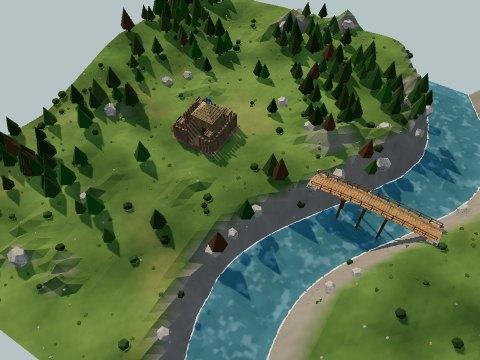
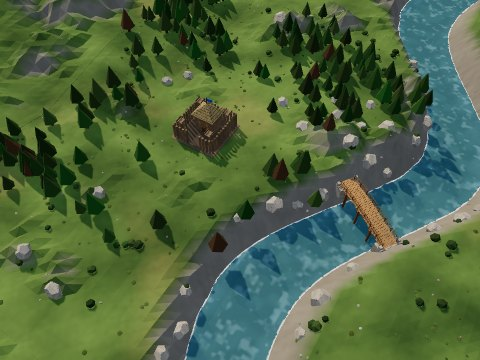
Bridges at any angle (radial on the isle, square across Meadow's river), isle outflow rivers, scenery beyond both maps, more rocks, no building on rocks
Claude-Session: https://claude.ai/code/session_01AE8sRRsVdpH9ETfQvtppox

diff --git a/CLAUDE.md b/CLAUDE.md
@@ -54,10 +54,12 @@ The whole game is currently one self-contained file: `index.html` (~165 KB, thre
 
 ## Maps
 - Two maps, picked on a dark title screen ("Medieval Town Defense", "Choose map"; `#mapPick` covers everything, visible from the first paint so the game never shows behind it) on entry and on Restart / Play again (`#mapPick`, `showMapPick`; each card shows a picture of the real map, `maps/meadow.jpg` / `maps/isle.jpg`, rendered by `node tools/render/maps.js [--three …]` (re-run after changing a map); the game waits paused underneath; last choice in `localStorage['mtd-map']`, highlighted). `?map=meadow|isle` (and `?debug` / `?gallery`) skip the picker. `MAP` is read by `genHeight`, `genTrees`, `genRocks`, `canStand`; `KX/KZ` (castle site) are set per map in `startGame` (Meadow 19,27 / cells 8–10,12–14; River isle 27,27 / cells 12–14,12–14).
-- **Meadow**: the original map: a straight river on the east side, crossed by one fixed bridge east of the castle (`MEADOW_BRIDGES` [0°], built by the same `genBridges`). Nobody wades any river (`canStand` modes 1 and 2 need h ≥ .3), so raiders spawning east of it must cross the bridge.
-- **River isle**: the castle on a flat island inside a wobbly ring of river (`ISLE.r` 16.6 m, `isleR(angle)`), hills beyond the far bank. Three fixed, free timber footbridges at `ISLE_BRIDGES` (−90°, 30°, 150°), each one cell wide along the nearer grid axis (`genBridges`: wet cells (any vertex below 0) plus the dry bank cell at each end; the deck lands half-way into each bank cell; `bridgeCell[n]` = index + 1). `deckY` arches the deck (`BRIDGE_RISE` .45); units stand at `walkY` (max of ground and deck) everywhere they are drawn; `cellPass`/`canStand` let everyone onto bridge cells; raiders can't wade (`canStand` mode 2 needs h ≥ .3). Nothing can be built or pathed on a bridge ("Bridge"). Model: `makeBridge` (planks across the arch, two log stringers, trestles where it crosses water, log railings, grey stone landings), `buildBridges` after `syncTerrain`. Woods on the island (clear round the castle and along the way to each bridge), forest beyond the river; stone only in three outcrops beyond the far bank between the bridges (`ISLE_ROCKS`, `isleRockSite`, 7 rocks each), so masons either live by the castle and walk via a bridge or build out by the rocks, exposed.
+- **Meadow**: the original map: a winding river on the east side (`meadowRiverX`), crossed by one fixed bridge square across it on the castle's row (`bridgeRays`). Rocks: a stony patch between the castle and the river north of the bridge (8) plus up to 48 scattered (≈510 stone). Nobody wades any river (`canStand` modes 1 and 2 need h ≥ .3), so raiders spawning east of it must cross the bridge.
+- **River isle**: the castle on a flat island inside a wobbly ring of river (`ISLE.r` 16.6 m, `isleR(angle)`), hills beyond the far bank. Two more rivers flow out of the ring to the map's edge, north-east and south-west (`isleOutN`/`isleOutS`, carved in `genHeight` outside the ring only), so the far bank is split in two. Three fixed, free timber footbridges at `ISLE_BRIDGES` (−90°, 30°, 150°), each radial (square across the ring). Bridges at any angle (`genBridges` from `bridgeRays`: march along a ray, the deck runs 1.4 m past the water at each end; a bridge is `x0, z0, dx, dz, L`, deck `DECK_W` 1.9; `bridgeT`/`bridgeW`/`onDeck`; `bridgeCell[n]` = index + 1 for every cell the deck touches, `b.ends` its end cells). `deckY(b, t)` arches the deck (`BRIDGE_RISE` .45); units stand at `walkY` (the deck inside its strip, else the ground) everywhere they are drawn; `cellPass` lets everyone path over bridge cells, `canStand` only on the deck strip; A* steps on and off a bridge only through its end cells, and waypoints in bridge cells are pulled onto the deck's centre line (`bridgeWaypoint`); raiders can't wade (`canStand` mode 2 needs h ≥ .3). Nothing can be built or pathed on a bridge ("Bridge"). Model: `makeBridge` (planks across the arch, two log stringers, trestles where it crosses water, log railings, grey stone landings), `buildBridges` after `syncTerrain`. Woods on the island (clear round the castle and along the way to each bridge), forest beyond the river; stone only beyond the river: three outcrops between the bridges (`ISLE_ROCKS`, `isleRockSite`, 7 rocks each) plus 16 scattered rocks, so masons either live by the castle and walk via a bridge or build out by the rocks, exposed.
 - Raiders route on the cell grid with `walkTo` (mode 2) toward a fixed point on their target's near side (`e.tp`, reset on each 3 s retarget), straight `steer` only within 3 m; a wall in the way (stuck or 3.5 s without progress) is attacked as before. Spawn points (`edgePoint`) must be walkable (`cellPass` mode 2) and have a route to the castle's door (a route to the castle's centre never exists: it is inside the building), else raiders spawned on steep edge hills stood stuck.
-- Ledges: bridges are entered and left only at their ends, along the deck (`findPath` refuses sideways moves onto or off a bridge cell); `steer`, `clearLine` and `separateUnits` refuse a move that changes `walkY` by more than a step's worth (≈.2–.35 m), so nobody hops up onto a deck from the side. `clearLine` shortcuts may touch a bridge cell only when both ends are on that bridge, so the path's waypoint lined up with the bridge's end is never skipped (raiders used to cut in from the side and stall on the bank below the deck). A raider held up in a crowd (another raider within 1.3 m, e.g. queueing for a bridge) waits instead of taking the random 5 m detour, which scattered queues onto the riverbank.
+- No building over a rock (`evaluate`: "Rocks"), so stone is never buried.
+- **Scenery skirt** (`SKIRT` 50 m, `genSkirt` at each start): a second terrain mesh with the map's material from −50 to SIZE + 50 following `genHeight` (rivers and hills run on out of the map; its edge takes the map's own heights; inside the map it sinks 4 m out of sight) and up to 3000 instanced trees (`skTrunks`/`skCrowns`, no shadows: they halved the frame rate). Nothing out there is part of the game. The water plane and the water's bed texture (`hTex`, `HV`, outside heights cached per map in `outH`) cover it too.
+- Ledges: bridges are entered and left only at their ends, along the deck (`findPath` refuses moves onto or off a bridge except through its end cells); `steer`, `clearLine` and `separateUnits` refuse a move that changes `walkY` by more than a step's worth (≈.2–.35 m), so nobody hops up onto a deck from the side. `clearLine` shortcuts may touch a bridge cell only when both ends are on that bridge, so the path's waypoint lined up with the bridge's end is never skipped (raiders used to cut in from the side and stall on the bank below the deck). A raider held up in a crowd (another raider within 1.3 m, e.g. queueing for a bridge) waits instead of taking the random 5 m detour, which scattered queues onto the riverbank.
 - Progress for give-ups is measured along the planned path (`pathLeft` in `trackProgress`), so a detour (round to a bridge) isn't mistaken for being stuck.
 - Selecting a castle or archer tower draws its archers' range (`rangeLine`, `syncRange` from `refreshCard`).
 
